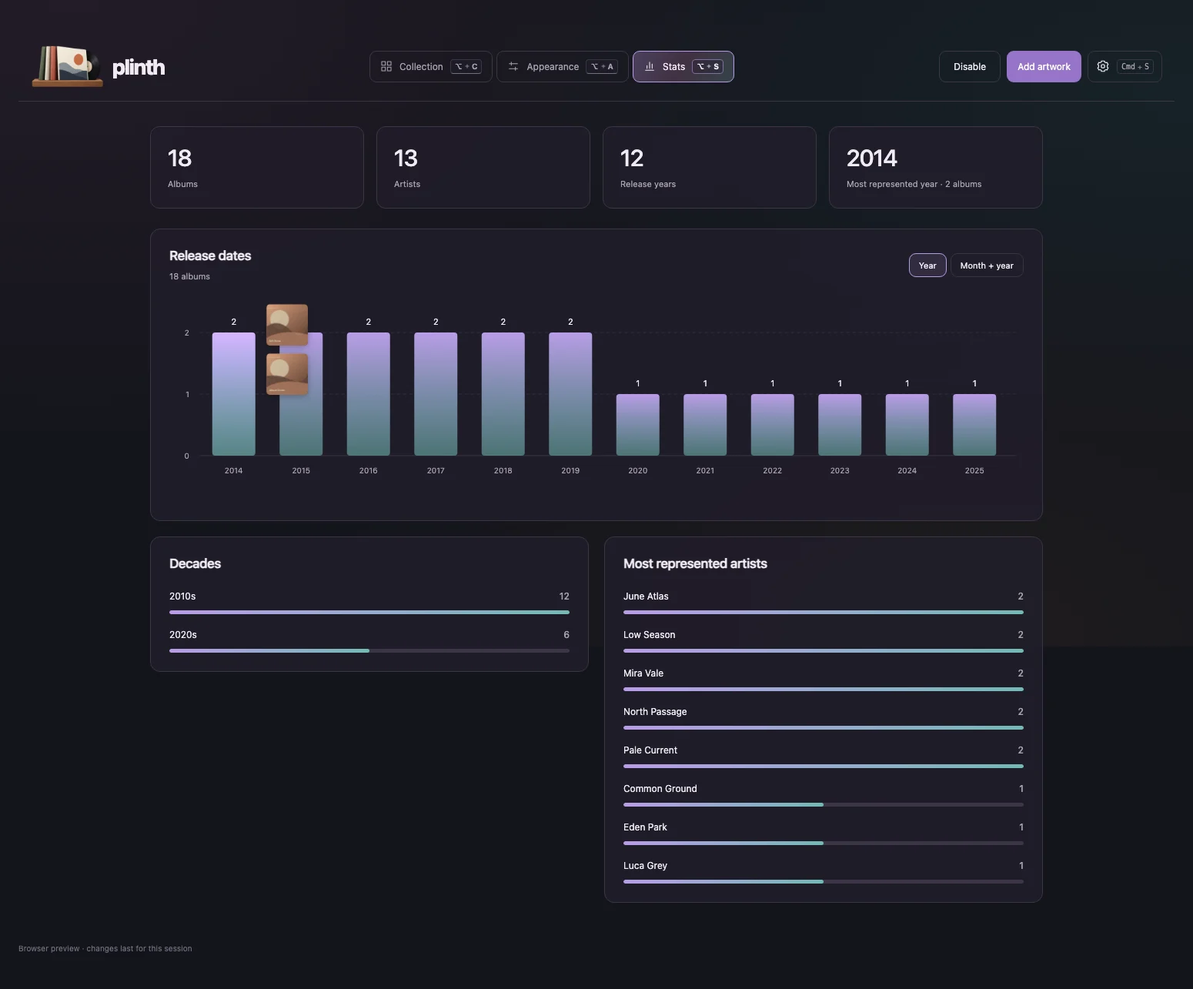
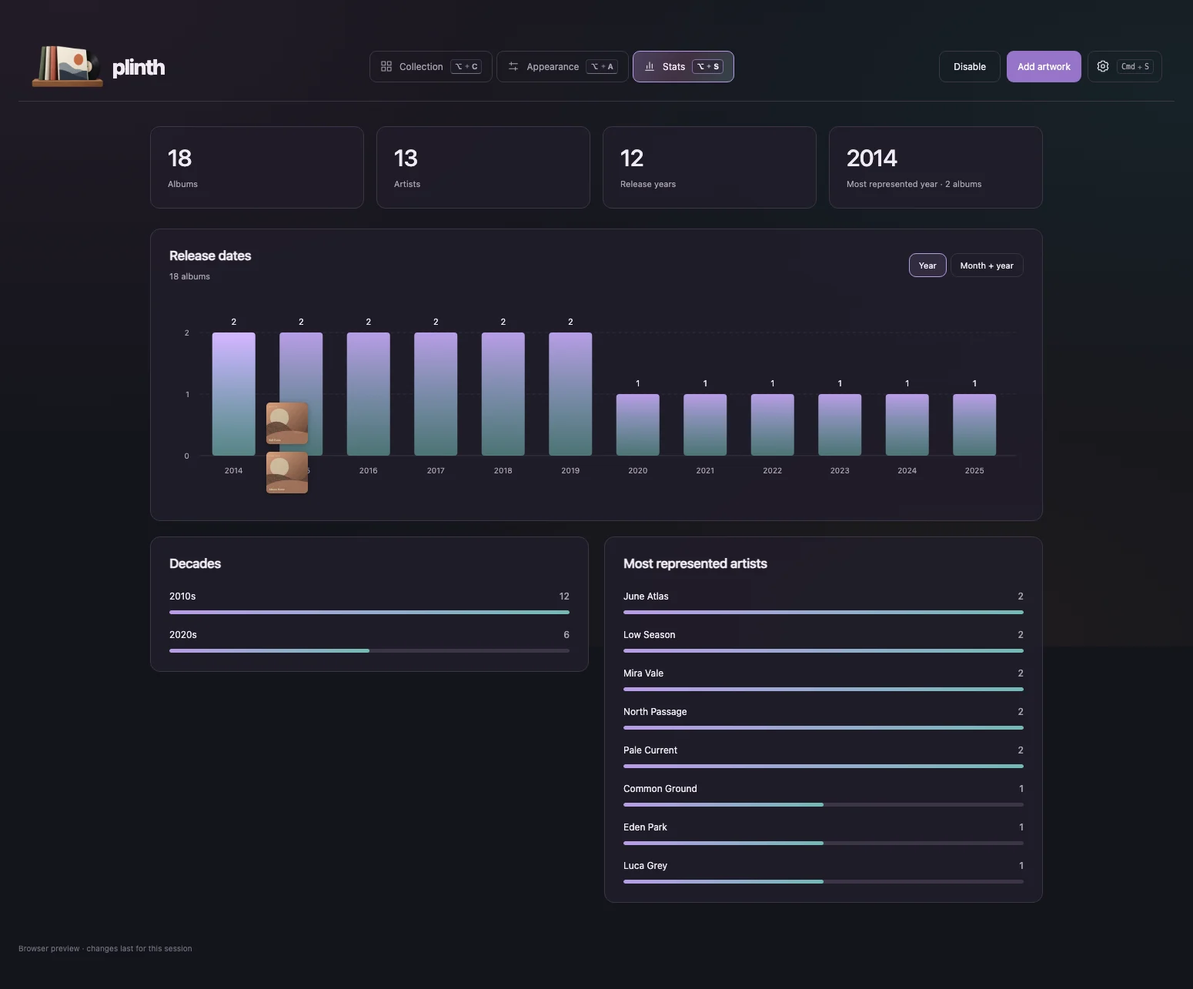
Smooth the release-chart artwork peek and vary its breathing
Scroll the peek column with one eased track transform and overscanned
covers, and load small native cover thumbnails instead of 1200 px covers,
which removes the frozen, blank and misaligned covers while scrolling.
Each cover now drifts, sways and breathes on its own seeded loops with
20% less rotation. Albums run from earliest at the top to latest at the
bottom, short groups rest against the bottom, and clicking no longer
moves the column or focuses a date.

Changed region(s): [[0.2168, 0.3113, 0.2787, 0.4981]]

diff --git a/src/lib/Stats.svelte b/src/lib/Stats.svelte
@@ -1,29 +1,38 @@
 <script lang="ts">
- import { coverUrl } from './api'
+ import { onDestroy } from 'svelte'
  import type { Album } from './types'
  import { libraryStats, months } from './stats'
+ import { breathe, cancelThumbnails, peekScroll, peekStride, requestThumbnails, thumbnail } from './peek'
  export let albums:Album[]=[]
  let plotWidth=0
  let hoveredKey=''
  let progress=0
  let chart:HTMLDivElement
- const chartHeight=265,peekWidth=74,stride=64
+ let pointerInside=false,focusedKey=''
+ let peekFirst=0,peekLast=-1
+ const chartHeight=265,peekWidth=74
  function clearPeek(){hoveredKey='';progress=0}
  function hoverBucket(key:string,event:PointerEvent){
-  hoveredKey=key
+  pointerInside=true;hoveredKey=key
   const rect=chart.getBoundingClientRect()
-  // Moving upward along a date's column reveals later albums in that group.
+  // The column maps onto the date's albums: the bottom shows the latest, and moving upward
+  // scrolls back toward the earliest at the top.
   progress=Math.max(0,Math.min(1,(205-(event.clientY-rect.top))/190))
  }
- function focusBucket(key:string){hoveredKey=key;progress=0}
+ // Keyboard focus starts a new date at its latest albums; a pointer click never moves the column.
+ function focusBucket(key:string){if(hoveredKey!==key){hoveredKey=key;progress=0}}
+ function blurBucket(key:string){focusedKey='';if(hoveredKey===key&&!pointerInside)clearPeek()}
+ // Leaving the chart returns to a keyboard-focused date, if any.
+ function leaveChart(){pointerInside=false;if(focusedKey)focusBucket(focusedKey);else clearPeek()}
  function browseBucket(key:string,event:KeyboardEvent){
   if(event.key==='Escape'){clearPeek();return}
   if(['ArrowUp','ArrowDown','Home','End','Enter',' '].includes(event.key)){
-   event.preventDefault();hoveredKey=key
+   event.preventDefault();focusBucket(key)
    const distance=1/Math.max(1,hoveredAlbums.length-4)
-   progress=event.key==='Home'?0:event.key==='End'?1:event.key==='ArrowUp'?Math.min(1,progress+distance):event.key==='ArrowDown'?Math.max(0,progress-distance):progress
+   progress=event.key==='Home'?1:event.key==='End'?0:event.key==='ArrowUp'?Math.min(1,progress+distance):event.key==='ArrowDown'?Math.max(0,progress-distance):progress
   }
  }
+ onDestroy(cancelThumbnails)
  let grouping:'year'|'month'='year'
  $: stats=libraryStats(albums)
  $: buckets=grouping==='year'?stats.years:stats.monthYears
@@ -35,9 +44,10 @@
  $: labelEvery=Math.max(1,Math.ceil(buckets.length/Math.max(1,Math.floor((chartWidth-60)/(grouping==='year'?42:58)))))
  $: hoveredIndex=buckets.findIndex(bucket=>bucket.label===hoveredKey)
  $: hoveredAlbums=(grouping==='year'?stats.yearAlbums:stats.monthAlbums).get(hoveredKey)??[]
- $: peekOffset=progress*Math.max(0,hoveredAlbums.length-4)*stride
- $: firstPeek=Math.max(0,Math.floor(peekOffset/stride)-1)
- $: visiblePeek=hoveredAlbums.slice(firstPeek,firstPeek+7)
+ $: visiblePeek=hoveredAlbums.slice(peekFirst,peekLast+1)
+ // Covers start loading for the whole chart; the hovered date's albums go first, latest first.
+ $: requestThumbnails([...stats.yearAlbums.values()].flat())
+ $: if(hoveredAlbums.length)requestThumbnails([...hoveredAlbums].reverse(),true)
  $: barCenter=40+(hoveredIndex+.5)*step
  $: peekLeft=Math.max(0,Math.min(chartWidth-peekWidth,barCenter+step*.28+8+peekWidth<chartWidth?barCenter+step*.28+8:barCenter-step*.28-8-peekWidth))
  $: peak=[...stats.years].sort((a,b)=>b.count-a.count||a.label.localeCompare(b.label))[0]
@@ -56,12 +66,12 @@
   <div class="stats-chart-heading"><div><h2>Release dates</h2><p>{#if datedCount===albums.length}{datedCount} {datedCount===1?'album':'albums'}{:else}{datedCount} of {albums.length} albums with {grouping==='year'?'a release year':'a release month'}{/if}</p></div><div class="stats-grouping" role="group" aria-label="Group release dates"><button aria-pressed={grouping==='year'} onclick={()=>{grouping='year';clearPeek()}}>Year</button><button aria-pressed={grouping==='month'} onclick={()=>{grouping='month';clearPeek()}}>Month + year</button></div></div>
   {#if !buckets.length}<p class="stats-empty">Add {grouping==='year'?'release dates':'release months'} in the album editor to fill this chart.</p>
   {:else}
-   <div class="stats-plot" bind:this={chart} bind:clientWidth={plotWidth} onpointerleave={clearPeek} role="group" aria-label="Release date chart">
+   <div class="stats-plot" bind:this={chart} bind:clientWidth={plotWidth} onpointerleave={leaveChart} role="group" aria-label="Release date chart">
     <svg class="release-chart" width={chartWidth} height={chartHeight} viewBox={`0 0 ${chartWidth} ${chartHeight}`} role="group" aria-label={`Albums by release ${grouping}`}>
      <defs><linearGradient id="stats-bars" x1="0" y1="0" x2="0" y2="1"><stop stop-color="var(--accent)"/><stop offset="1" stop-color="#72bab5" stop-opacity=".55"/></linearGradient></defs>
      {#each ticks as count}<line x1="40" x2={chartWidth-10} y1={205-count/maximum*160} y2={205-count/maximum*160} stroke="var(--line)" stroke-dasharray={count?'3 5':undefined}/><text x="26" y={209-count/maximum*160} text-anchor="end">{count}</text>{/each}
      {#each buckets as bucket,index}
-      <g class="release-bucket" class:peeked={hoveredKey===bucket.label} role="button" tabindex="0" aria-label={`${label(bucket.label)}: ${bucket.count} ${bucket.count===1?'album':'albums'}`} aria-describedby={hoveredKey===bucket.label?'release-artwork-preview':undefined} onpointermove={(event)=>hoverBucket(bucket.label,event)} onfocus={()=>focusBucket(bucket.label)} onblur={clearPeek} onkeydown={(event)=>browseBucket(bucket.label,event)} onclick={()=>focusBucket(bucket.label)}>
+      <g class="release-bucket" class:peeked={hoveredKey===bucket.label} role="button" tabindex="0" aria-label={`${label(bucket.label)}: ${bucket.count} ${bucket.count===1?'album':'albums'}`} aria-describedby={hoveredKey===bucket.label?'release-artwork-preview':undefined} onpointermove={(event)=>hoverBucket(bucket.label,event)} onmousedown={(event)=>event.preventDefault()} onfocus={()=>{focusedKey=bucket.label;focusBucket(bucket.label)}} onblur={()=>blurBucket(bucket.label)} onkeydown={(event)=>browseBucket(bucket.label,event)}>
        <rect class="release-bar" x={40+index*step+step*.18} y={205-bucket.count/maximum*160} width={step*.64} height={bucket.count/maximum*160} rx={Math.min(4,step*.2)} fill="url(#stats-bars)"/>
        {#if step>=20||index===hoveredIndex}<text class="bar-count" x={40+(index+.5)*step} y={195-bucket.count/maximum*160} text-anchor="middle">{bucket.count}</text>{/if}
        {#if index===hoveredIndex||(index%labelEvery===0&&(hoveredIndex<0||Math.abs(index-hoveredIndex)>=labelEvery*.8))}<text x={Math.max(52,Math.min(chartWidth-24,40+(index+.5)*step))} y="228" text-anchor="middle">{grouping==='year'?bucket.label:months[Number(bucket.label.slice(5))-1]}</text>{#if grouping==='month'}<text x={Math.max(52,Math.min(chartWidth-24,40+(index+.5)*step))} y="246" text-anchor="middle">{bucket.label.slice(0,4)}</text>{/if}{/if}
@@ -72,9 +82,11 @@
     {#if hoveredIndex>=0&&hoveredAlbums.length}
      <div class="stats-peek" id="release-artwork-preview" role="tooltip" aria-label={`${label(hoveredKey)} artwork`} style:left={`${peekLeft}px`}>
       <div class="stats-peek-window">
-       {#each visiblePeek as album,index (album.id)}
-        <div class="stats-peek-cover" style:top={`${4+(firstPeek+index)*stride-peekOffset}px`}><img src={coverUrl(album)} alt={`${album.title} by ${album.artist||'Unknown artist'}`} draggable="false" style:animation-delay={`${-(firstPeek+index)*1.37}s`}/></div>
-       {/each}
+       <div class="stats-peek-track" use:peekScroll={{key:hoveredKey,count:hoveredAlbums.length,progress,onrange:(first,last)=>{peekFirst=first;peekLast=last}}}>
+        {#each visiblePeek as album,index (album.id)}
+         <div class="stats-peek-cover" style:top={`${(peekFirst+index)*peekStride}px`} use:breathe={album.id}><div><img use:thumbnail={album} alt={`${album.title} by ${album.artist||'Unknown artist'}`} draggable="false"/></div></div>
+        {/each}
+       </div>
       </div>
      </div>
     {/if}

diff --git a/tests/stats.spec.ts b/tests/stats.spec.ts
@@ -9,6 +9,8 @@ test('stats counts release precision, hidden albums, artists and invalid dates a
  expect(stats.years).toEqual([{label:'1999',count:1},{label:'2024',count:3}])
  expect(stats.monthYears).toEqual([{label:'1999-12',count:1},{label:'2024-02',count:2}])
  expect(stats.topArtists).toEqual([{label:'Mira Vale',count:4}])
+ const ordered=libraryStats(['2020-11-02','2020','2020-03-09','2020-03'].map((date,i)=>({...demoAlbums[0],id:String(i),date})))
+ expect(ordered.yearAlbums.get('2020')!.map(album=>album.date)).toEqual(['2020','2020-03','2020-03-09','2020-11-02'])
 })
 
 test('Stats charts switch between years and months and settings returns to the prior page',async({page})=>{
@@ -42,16 +44,26 @@ test('Stats has empty and undated states and fits a narrow light window',async({
 
 test('dense dates fit the chart and artwork previews follow the cursor and keyboard',async({page})=>{
  const {defaultSettings}=await import('../src/lib/types')
- const albums=[...Array.from({length:9},(_,i)=>({...demoAlbums[i],id:`stack-${i}`,title:`Stack ${i}`,date:'2024-01-01'})),...Array.from({length:180},(_,i)=>({...demoAlbums[i%18],id:`dense-${i}`,date:`${2000+Math.floor(i/12)}-${String(i%12+1).padStart(2,'0')}-01`}))]
+ const albums=[...Array.from({length:9},(_,i)=>({...demoAlbums[i],id:`stack-${i}`,title:`Stack ${i}`,date:`2024-01-0${i+1}`})).reverse(),{...demoAlbums[0],id:'pair-late',title:'Pair Late',date:'1999-12-01'},{...demoAlbums[1],id:'pair-early',title:'Pair Early',date:'1999-02-01'},...Array.from({length:180},(_,i)=>({...demoAlbums[i%18],id:`dense-${i}`,date:`${2000+Math.floor(i/12)}-${String(i%12+1).padStart(2,'0')}-01`}))]
  await page.addInitScript(({albums,settings})=>{
   let next=1
   Object.assign(window,{isTauri:true,__TAURI_INTERNALS__:{metadata:{currentWindow:{label:'main'},currentWebview:{label:'main'}},transformCallback:()=>next++,unregisterCallback:()=>{},convertFileSrc:(path:string)=>albums.find(album=>path.endsWith(album.cover))?.original??albums[0].original,invoke:async(command:string)=>command==='get_library'?{dataDir:'/synthetic-demo',library:{albums,settings}}:command==='get_displays'?[]:command==='plugin:event|listen'?next++:null},__TAURI_EVENT_PLUGIN_INTERNALS__:{unregisterListener:()=>{}}})
  },{albums:albums.map((album,i)=>({...album,cover:`synthetic-${i}.jpg`,original:album.cover})),settings:defaultSettings})
  await page.setViewportSize({width:640,height:700});await page.goto('/');await page.keyboard.press('Alt+KeyS')
  await expect(page.getByRole('heading',{name:'Stats',exact:true})).toHaveCount(0)
- await expect(page.locator('.stats-chart-heading p')).toHaveText('189 albums')
+ await expect(page.locator('.stats-chart-heading p')).toHaveText('191 albums')
+ // A short group rests against the bottom of the column, earliest above latest.
+ await page.locator('.stats-plot').scrollIntoViewIfNeeded()
+ const pair=(await page.getByRole('button',{name:'1999: 2 albums',exact:true}).locator('.release-hit').boundingBox())!
+ await page.mouse.move(pair.x+pair.width/2,pair.y+pair.height/2)
+ const pairPeek=page.getByRole('tooltip',{name:'1999 artwork',exact:true})
+ const early=pairPeek.getByRole('img',{name:'Pair Early by Low Season',exact:true}),late=pairPeek.getByRole('img',{name:'Pair Late by Mira Vale',exact:true})
+ await expect(late).toHaveClass(/ready/)
+ const pairWindow=(await page.locator('.stats-peek-window').boundingBox())!,earlyBox=(await early.boundingBox())!,lateBox=(await late.boundingBox())!
+ expect(earlyBox.y).toBeLessThan(lateBox.y);expect(lateBox.y+lateBox.height).toBeGreaterThan(pairWindow.y+pairWindow.height-12)
+ await page.mouse.move(5,5);await expect(pairPeek).not.toBeVisible()
  await page.getByRole('button',{name:'Month + year',exact:true}).click()
- await expect(page.locator('.release-bucket')).toHaveCount(181)
+ await expect(page.locator('.release-bucket')).toHaveCount(183)
  expect(await page.locator('.stats-plot').evaluate(el=>el.scrollWidth<=el.clientWidth+1)).toBe(true)
  expect(await page.evaluate(()=>document.documentElement.scrollWidth<=innerWidth)).toBe(true)
  const bucket=page.getByRole('button',{name:'Jan 2024: 9 albums',exact:true})
@@ -59,20 +71,29 @@ test('dense dates fit the chart and artwork previews follow the cursor and keybo
  const bounds=(await bucket.locator('.release-hit').boundingBox())!
  await page.mouse.move(bounds.x+bounds.width/2,bounds.y+bounds.height-50)
  const peek=page.getByRole('tooltip',{name:'Jan 2024 artwork',exact:true})
- await expect(peek).toBeVisible();await expect(peek.getByRole('img',{name:'Stack 0 by Mira Vale',exact:true})).toBeVisible()
- const first=await peek.getByRole('img',{name:'Stack 0 by Mira Vale',exact:true}).boundingBox()
+ // The bottom of the column shows the latest albums; moving up scrolls back to the earliest.
+ const earliest=peek.getByRole('img',{name:'Stack 0 by Mira Vale',exact:true}),latest=peek.getByRole('img',{name:'Stack 8 by Luca Grey',exact:true})
+ await expect(peek).toBeVisible();await expect(latest).toBeVisible();await expect(earliest).toHaveCount(0)
  const window=(await page.locator('.stats-peek-window').boundingBox())!
- expect(first!.y).toBeGreaterThanOrEqual(window.y)
+ expect((await latest.boundingBox())!.y+54).toBeLessThanOrEqual(window.y+window.height+2)
  await page.mouse.move(bounds.x+bounds.width/2,bounds.y+2)
- await expect(peek.getByRole('img',{name:'Stack 8 by Luca Grey',exact:true})).toBeVisible()
- await expect(peek.getByRole('img',{name:'Stack 0 by Mira Vale',exact:true})).toHaveCount(0)
- const last=await peek.getByRole('img',{name:'Stack 8 by Luca Grey',exact:true}).boundingBox()
- expect(last!.y+last!.height).toBeLessThanOrEqual(window.y+window.height+2)
+ await expect(earliest).toBeVisible();await expect(latest).toHaveCount(0)
+ await expect.poll(async()=>(await earliest.boundingBox())!.y-window.y,{timeout:2000}).toBeLessThan(8)
+ // Clicking while browsing leaves the column where the pointer put it.
+ const track=page.locator('.stats-peek-track'),settled='translate3d(0px, 0px, 0px)'
+ await expect.poll(()=>track.evaluate(el=>el.style.transform)).toBe(settled)
+ await page.mouse.down();await page.mouse.up();await page.waitForTimeout(300)
+ expect(await track.evaluate(el=>el.style.transform)).toBe(settled);await expect(earliest).toBeVisible()
+ expect(await page.evaluate(()=>document.activeElement?.classList.contains('release-bucket'))).toBe(false)
+ // Each cover drifts, sways and breathes on loops of its own.
+ const timings=await peek.locator('.stats-peek-cover').evaluateAll(covers=>covers.map(cover=>[cover,cover.firstElementChild!,cover.querySelector('img')!].map(node=>Math.round(Number(node.getAnimations()[0].effect!.getTiming().duration)))))
+ expect(new Set(timings.map(t=>t.join())).size).toBe(timings.length)
  await bucket.focus();await page.keyboard.press('End')
  await expect(peek.getByRole('img',{name:'Stack 8 by Luca Grey',exact:true})).toBeVisible()
  await page.keyboard.press('Home');await expect(peek.getByRole('img',{name:'Stack 0 by Mira Vale',exact:true})).toBeVisible()
  await page.keyboard.press('Escape');await expect(peek).not.toBeVisible()
  await page.emulateMedia({reducedMotion:'reduce'});await bucket.blur();await bucket.focus()
- await expect(peek.locator('img').first()).toHaveCSS('animation-name','none')
+ await expect(peek.locator('img').first()).toBeVisible()
+ expect(await peek.evaluate(el=>el.getAnimations({subtree:true}).filter(a=>a.playState==='running'&&(a as CSSAnimation).animationName!=='stats-peek-in').length)).toBe(0)
  await page.getByRole('button',{name:'Year',exact:true}).click();await expect(peek).not.toBeVisible()
 })

diff --git a/src/lib/peek.ts b/src/lib/peek.ts
@@ -1,0 +1,98 @@
+import { coverThumbnail, coverUrl } from './api'
+import type { Album } from './types'
+
+// Release-chart artwork peek: a column of small covers that scrolls with the pointer.
+export const peekStride=64,peekSlots=4,peekHeight=256
+const coverSize=54,overscan=2,thumbSize=128
+
+// Full covers are up to 1200 px; decoding them while the column scrolls freezes it and leaves
+// blank covers. Small copies are made natively, a few at a time, and kept for the session.
+const thumbs=new Map<string,string>(),pending=new Map<string,Album>(),waiting=new Map<string,Set<(src:string)=>void>>()
+let running=0
+function pump(){
+ while(running<3&&pending.size){
+  const [cover,album]=pending.entries().next().value!;pending.delete(cover);running++
+  coverThumbnail(album,thumbSize).catch(()=>coverUrl(album)).then(src=>{
+   thumbs.set(cover,src);for(const done of waiting.get(cover)??[])done(src);waiting.delete(cover);running--;pump()
+  })
+ }
+}
+// Urgent requests jump ahead of background work, in the order given.
+export function requestThumbnails(albums:Album[],urgent=false){
+ const fresh=albums.filter(album=>album.cover&&!thumbs.has(album.cover))
+ if(urgent){const rest=[...pending].filter(([cover])=>!fresh.some(album=>album.cover===cover));pending.clear();for(const album of fresh)pending.set(album.cover,album);for(const [cover,album] of rest)pending.set(cover,album)}
+ else for(const album of fresh)if(!pending.has(album.cover))pending.set(album.cover,album)
+ pump()
+}
+export function cancelThumbnails(){pending.clear()}
+export function thumbnail(img:HTMLImageElement,album:Album){
+ let current=''
+ function update(next:Album){
+  current=next.cover
+  const ready=thumbs.get(next.cover)
+  if(ready){img.src=ready;img.classList.add('ready');return}
+  img.classList.remove('ready');img.removeAttribute('src')
+  const done=(src:string)=>{if(current===next.cover){img.src=src;img.decode().catch(()=>{}).then(()=>img.classList.add('ready'))}}
+  waiting.set(next.cover,(waiting.get(next.cover)??new Set()).add(done));requestThumbnails([next],true)
+ }
+ update(album)
+ return {update,destroy(){current=''}}
+}
+
+const reduced=()=>matchMedia('(prefers-reduced-motion: reduce)').matches
+// The track's offset when the pointer is at the bottom of the column (progress 0) or the top
+// (progress 1). Albums run first to last from top to bottom and rest against the bottom edge.
+export function trackOffset(count:number,progress:number){return (peekSlots-count)*peekStride+progress*Math.max(0,count-peekSlots)*peekStride}
+// Eases the track toward the pointer with one compositor transform, and reports which covers
+// (with a little overscan) need to exist, so covers mount out of view and never pop.
+export function peekScroll(track:HTMLElement,options:{key:string;count:number;progress:number;onrange:(first:number,last:number)=>void}){
+ let offset=0,target=0,key='',range='',frame=0,last=0
+ function place(){
+  track.style.transform=`translate3d(0,${offset}px,0)`
+  const first=Math.max(0,Math.floor((-offset-coverSize)/peekStride)-overscan),end=Math.min(options.count-1,Math.ceil((peekHeight-offset)/peekStride)+overscan)
+  if(`${options.key}:${first}:${end}`!==range){range=`${options.key}:${first}:${end}`;options.onrange(first,end)}
+ }
+ function tick(now:number){
+  // Frame-rate independent exponential approach (about 70 ms to close two thirds of the gap).
+  offset+=(target-offset)*(1-Math.exp(-Math.min(64,now-last)/70));last=now
+  if(Math.abs(target-offset)<.05)offset=target
+  place();frame=offset===target?0:requestAnimationFrame(tick)
+ }
+ function update(next:typeof options){
+  options=next;target=trackOffset(next.count,next.progress)
+  if(next.key!==key||reduced()){key=next.key;offset=target;cancelAnimationFrame(frame);frame=0;place();return}
+  if(!frame&&offset!==target){last=performance.now();frame=requestAnimationFrame(tick)}
+ }
+ update(options)
+ return {update,destroy(){cancelAnimationFrame(frame)}}
+}
+
+// Each cover drifts, sways and breathes on its own unrelated loops: three layers, each with a
+// seeded duration and a smooth closed path made of random harmonics, so no two covers move alike
+// and none simply rocks back and forth. Web Animations keep it on the compositor.
+function seeded(text:string){
+ let h=2166136261;for(let i=0;i<text.length;i++)h=Math.imul(h^text.charCodeAt(i),16777619)
+ return ()=>{h=Math.imul(h^h>>>15,h|1);h^=h+Math.imul(h^h>>>7,h|61);return((h^h>>>14)>>>0)/4294967296}
+}
+const samples=36
+function wander(random:()=>number){
+ const waves=[{k:1,weight:1},{k:2,weight:.25+random()*.35},{k:3,weight:.08+random()*.22}].map(wave=>({...wave,phase:random()*Math.PI*2}))
+ const path=Array.from({length:samples+1},(_,i)=>waves.reduce((sum,{k,weight,phase})=>sum+weight*Math.sin(k*Math.PI*2*i/samples+phase),0))
+ const peak=Math.max(...path.map(Math.abs));return path.map(value=>value/peak)
+}
+export function breathe(cover:HTMLElement,id:string){
+ if(reduced())return
+ const random=seeded(id),sway=cover.firstElementChild as HTMLElement,img=sway.firstElementChild as HTMLElement
+ const loop=(node:HTMLElement,seconds:[number,number],frames:(i:number)=>string)=>{
+  const duration=(seconds[0]+random()*(seconds[1]-seconds[0]))*1000
+  const animation=node.animate(Array.from({length:samples+1},(_,i)=>({transform:frames(i)})),{duration,iterations:Infinity,easing:'linear'})
+  animation.currentTime=random()*duration;return animation
+ }
+ const x=wander(random),y=wander(random),turn=wander(random),size=wander(random)
+ const animations=[
+  loop(cover,[9,13],i=>`translate(${(x[i]*.6).toFixed(3)}px,${(y[i]*.4).toFixed(3)}px)`),
+  loop(sway,[7,10.5],i=>`rotate(${(turn[i]*.64).toFixed(3)}deg)`),
+  loop(img,[6.5,9.5],i=>`scale(${(1+size[i]*.015).toFixed(4)})`),
+ ]
+ return {destroy(){for(const animation of animations)animation.cancel()}}
+}

diff --git a/src/app.css b/src/app.css
@@ -56,4 +56,4 @@ nav button .shortcut{min-width:30px;padding:0 5px;border-bottom-color:var(--fain
 .stats-page{max-width:1160px;margin:8px auto 28px}.stats-summary{display:grid;grid-template-columns:repeat(4,minmax(0,1fr));gap:16px;margin:0 0 26px}.stats-summary>div{border:1px solid var(--line);border-radius:12px;background:var(--paper);padding:22px}.stats-summary strong{display:block;font-size:30px;font-weight:500;letter-spacing:-1px}.stats-summary span{display:block;color:var(--muted);font-size:11px;margin-top:8px;line-height:1.6}.stats-chart{padding:24px}.stats-chart-heading{display:flex;align-items:center;justify-content:space-between;gap:16px;margin-bottom:20px}.stats-chart-heading p{color:var(--muted);font-size:11px;margin-top:8px;line-height:1.6}.stats-grouping{display:flex;gap:5px;flex-shrink:0}.stats-grouping button{font-size:11px;padding:8px 12px}.stats-grouping button[aria-pressed=true]{border-color:var(--accent);background:color-mix(in srgb,var(--accent) 12%,var(--paper));color:var(--ink)}.release-chart{display:block}.release-chart text{fill:var(--muted);font-size:10px}.release-chart .bar-count{fill:var(--ink);font-size:11px}.stats-details{display:grid;align-items:start;grid-template-columns:1fr 1fr;gap:20px;margin-top:20px}.stats-ranking{padding:24px}.stats-ranking ol{list-style:none;padding:0;margin:24px 0 0}.stats-ranking li+li{margin-top:18px}.stats-ranking li>div:first-child{display:flex;justify-content:space-between;gap:12px;font-size:12px;line-height:1.5}.stats-ranking strong{font-weight:500;color:var(--muted)}.stats-track{height:5px;background:var(--line);border-radius:4px;margin-top:9px;overflow:hidden}.stats-track span{display:block;height:100%;border-radius:inherit;background:linear-gradient(90deg,var(--accent),#72bab5)}.stats-empty{color:var(--muted);font-size:12px;line-height:1.7;padding:28px 0}@media(max-width:760px){.stats-summary{grid-template-columns:repeat(2,minmax(0,1fr))}.stats-details{grid-template-columns:1fr}.stats-chart-heading{align-items:flex-start;flex-direction:column}.stats-chart,.stats-ranking{padding:18px}.settings-dialog{padding:18px}}
 
 /* Each release column fits the plot; only the artwork preview moves vertically. */
-.stats-plot{position:relative;width:100%;min-width:0;margin-top:8px}.stats-plot .release-chart{width:100%;min-width:0;overflow:visible}.release-bucket{outline:none}.release-bar{transition:opacity .15s,filter .15s}.release-bucket.peeked .release-bar,.release-bucket:focus-visible .release-bar{filter:brightness(1.16)}.release-bucket:focus-visible .release-hit{stroke:var(--accent);stroke-width:1;rx:4}.release-hit{cursor:default}.stats-peek{position:absolute;top:4px;width:74px;height:256px;pointer-events:none;z-index:2;animation:stats-peek-in .16s ease-out}.stats-peek-window{position:relative;width:74px;height:256px;overflow:hidden;mask-image:linear-gradient(transparent,#000 4px,#000 calc(100% - 4px),transparent)}.stats-peek-cover{position:absolute;left:10px;width:54px;height:54px;transition:top .1s ease-out}.stats-peek-cover img{display:block;width:100%;height:100%;border-radius:5px;box-shadow:0 2px 8px #0004;animation:stats-cover-breathe 8s ease-in-out infinite;will-change:transform}@keyframes stats-peek-in{from{opacity:0}to{opacity:1}}@keyframes stats-cover-breathe{0%,100%{transform:translate(-.6px,.4px) rotate(-.8deg) scale(.985)}50%{transform:translate(.6px,-.4px) rotate(.8deg) scale(1.015)}}
+.stats-plot{position:relative;width:100%;min-width:0;margin-top:8px}.stats-plot .release-chart{width:100%;min-width:0;overflow:visible}.release-bucket{outline:none}.release-bar{transition:opacity .15s,filter .15s}.release-bucket.peeked .release-bar,.release-bucket:focus-visible .release-bar{filter:brightness(1.16)}.release-bucket:focus-visible .release-hit{stroke:var(--accent);stroke-width:1;rx:4}.release-hit{cursor:default}.stats-peek{position:absolute;top:4px;width:74px;height:256px;pointer-events:none;z-index:2;animation:stats-peek-in .16s ease-out}.stats-peek-window{position:relative;width:74px;height:256px;overflow:hidden;mask-image:linear-gradient(transparent,#000 4px,#000 calc(100% - 4px),transparent)}.stats-peek-track{position:absolute;inset:4px 0 auto;will-change:transform}.stats-peek-cover{position:absolute;left:10px;width:54px;height:54px}.stats-peek-cover>div{width:100%;height:100%;border-radius:5px;background:var(--line)}.stats-peek-cover img{display:block;width:100%;height:100%;object-fit:cover;border-radius:5px;box-shadow:0 2px 8px #0004;opacity:0;transition:opacity .18s}.stats-peek-cover img.ready{opacity:1}@keyframes stats-peek-in{from{opacity:0}to{opacity:1}}

diff --git a/src/lib/api.ts b/src/lib/api.ts
@@ -14,6 +14,13 @@ export async function loadLibrary(): Promise<Library> {
  const result = await invoke<{library: Library; dataDir:string}>('get_library'); dataDir=result.dataDir; return result.library
 }
 export function coverUrl(album: Album) { return native ? convertFileSrc(`${dataDir}/covers/${album.cover}`) : album.cover }
+// A small square copy of a stored cover for animated previews. Browser demo covers are already light.
+export async function coverThumbnail(album: Album, size: number) {
+ if(!native) return album.cover
+ const bytes=await invoke<ArrayBuffer>('cover_thumbnail',{cover:album.cover,size})
+ if(!(bytes instanceof ArrayBuffer)) throw new Error('No thumbnail')
+ return URL.createObjectURL(new Blob([bytes],{type:'image/jpeg'}))
+}
 export async function subscribe(fn:(library: Library)=>void) { if(native) return listen<Library>('library-changed',e=>fn(e.payload)); listeners.add(fn);return ()=>{listeners.delete(fn)} }
 export async function saveSettings(settings:Settings) { if(native) return invoke('save_settings',{settings}); browserLibrary.settings=structuredClone(settings);changed() }
 export async function updateAlbum(album:Album) { if(native) return invoke('update_album',{album}); browserLibrary.albums=browserLibrary.albums.map(a=>a.id===album.id?album:a);changed() }

diff --git a/src/lib/stats.ts b/src/lib/stats.ts
@@ -19,6 +19,8 @@ export function libraryStats(albums:Album[]){
   dated++;add(years,match[1]);collect(yearAlbums,match[1],album);add(decades,`${Math.floor(year/10)*10}s`)
   if(match[2]){monthly++;add(monthYears,`${match[1]}-${match[2]}`);collect(monthAlbums,`${match[1]}-${match[2]}`,album)}
  }
+ // Within a date, albums run from earliest (January) to latest; year-only dates come first.
+ for(const group of [...yearAlbums.values(),...monthAlbums.values()])group.sort((a,b)=>a.date.localeCompare(b.date))
  const chronological=(map:Map<string,number>):Bucket[]=>[...map].sort(([a],[b])=>a.localeCompare(b)).map(([label,count])=>({label,count}))
  const ranked=[...artists].sort(([a,ac],[b,bc])=>bc-ac||a.localeCompare(b)).map(([label,count])=>({label,count}))
  return {dated,monthly,yearAlbums,monthAlbums,artists:artists.size,years:chronological(years),monthYears:chronological(monthYears),decades:chronological(decades),topArtists:ranked.slice(0,8)}

diff --git a/tests/screenshots.spec.ts b/tests/screenshots.spec.ts
@@ -24,7 +24,7 @@ test('README screenshots use only synthetic demo artwork',async({page})=>{
  await page.mouse.up()
  await page.getByRole('button',{name:'Stats',exact:true}).click()
  await page.locator('.release-bucket').first().focus()
- await page.locator('.stats-peek img').first().evaluate(async(image:HTMLImageElement)=>image.decode())
+ await expect(page.locator('.stats-peek img:not(.ready)')).toHaveCount(0);await expect(page.locator('.stats-peek img.ready').first()).toBeVisible()
  await sharp(await page.screenshot({fullPage:true,animations:'disabled'})).webp({quality:86}).toFile('docs/screenshots/stats.webp')
  await page.getByRole('button',{name:'Settings',exact:true}).click()
  await expect(page.getByLabel('Clicking an album')).toHaveCount(0)

diff --git a/src-tauri/src/library.rs b/src-tauri/src/library.rs
@@ -292,9 +292,45 @@ pub fn validate_settings(s: &Settings) -> Result<(), String> {
     }
     Ok(())
 }
+/// A small square JPEG of a stored cover, center-cropped like `object-fit: cover`.
+/// Full covers are up to 1200 px; decoding them in the webview stalls animated previews.
+pub fn cover_thumbnail(dir: &Path, cover: &str, size: u32) -> Result<Vec<u8>, String> {
+    if cover.is_empty() || cover.starts_with('.') || cover.contains(['/', '\\']) {
+        return Err("Invalid cover".into());
+    }
+    let decoded = image::open(dir.join("covers").join(cover)).map_err(|e| e.to_string())?;
+    let side = decoded.width().min(decoded.height());
+    let size = size.clamp(16, 512).min(side.max(1));
+    let square = decoded.crop_imm(
+        (decoded.width() - side) / 2,
+        (decoded.height() - side) / 2,
+        side,
+        side,
+    );
+    let mut bytes = Vec::new();
+    image::codecs::jpeg::JpegEncoder::new_with_quality(&mut bytes, 90)
+        .encode_image(&square.thumbnail_exact(size, size).to_rgb8())
+        .map_err(|e| e.to_string())?;
+    Ok(bytes)
+}
 #[cfg(test)]
 mod tests {
     use super::*;
+    #[test]
+    fn cover_thumbnail_crops_square_and_rejects_paths() {
+        let dir = std::env::temp_dir().join(format!("plinth-thumb-{}", std::process::id()));
+        fs::create_dir_all(dir.join("covers")).unwrap();
+        image::RgbImage::from_pixel(300, 200, image::Rgb([200, 40, 90]))
+            .save(dir.join("covers").join("wide.jpg"))
+            .unwrap();
+        let thumb =
+            image::load_from_memory(&cover_thumbnail(&dir, "wide.jpg", 128).unwrap()).unwrap();
+        assert_eq!((thumb.width(), thumb.height()), (128, 128));
+        for name in ["", "../library.json", "covers/wide.jpg", ".hidden"] {
+            assert!(cover_thumbnail(&dir, name, 128).is_err());
+        }
+        fs::remove_dir_all(dir).unwrap();
+    }
     #[test]
     fn obsolete_open_mode_is_ignored() {
         for mode in ["library", "link"] {

diff --git a/src-tauri/src/main.rs b/src-tauri/src/main.rs
@@ -126,6 +126,20 @@ fn apply_settings_effects(
     Ok(())
 }
 #[tauri::command]
+async fn cover_thumbnail(
+    window: tauri::WebviewWindow,
+    app: tauri::AppHandle,
+    cover: String,
+    size: u32,
+) -> Result<tauri::ipc::Response, String> {
+    editor(&window)?;
+    let dir = app.state::<Store>().dir.clone();
+    tauri::async_runtime::spawn_blocking(move || library::cover_thumbnail(&dir, &cover, size))
+        .await
+        .map_err(|e| e.to_string())?
+        .map(tauri::ipc::Response::new)
+}
+#[tauri::command]
 async fn get_history(
     window: tauri::WebviewWindow,
     app: tauri::AppHandle,
@@ -595,6 +609,7 @@ fn main() {
             get_displays,
             get_spaces,
             get_library,
+            cover_thumbnail,
             get_history,
             navigate_history,
             save_settings,

diff --git a/AGENTS.md b/AGENTS.md
@@ -49,4 +49,4 @@
 - Desktop hover behavior is mirrored on the website hero in `../plinth-website/public/hover.js`: nearest-cover hit areas with no dead zone, enlargement laid out at the animation's largest size and scaled down only (never upscaled, never animating layout size), slow breathing, drift away from the pointer, and neighbor push that follows the current size. Keep app and site in sync whenever any of these change.
 - Size desktop cells with the same explicit pixel width and height from shared geometry; do not rely on flexbox aspect-ratio sizing. Background hover defaults on; when disabled, only Plinth or Finder foreground permits desktop enlargement. Include foreground changes in pointer tracking even without pointer movement.
 
-- Stats has no page heading or introductory copy. Release-date bars fit the available width; thin out axis labels for dense data. Hovered date columns show artwork only, about four covers over the chart height, with subtle scale/rotation/position breathing. Moving upward along a column scrolls larger groups; keyboard users can focus a date and use Up/Down or Home/End. Show just the album count when date coverage is complete.
+- Stats has no page heading or introductory copy. Release-date bars fit the available width; thin out axis labels for dense data. Hovered date columns show artwork only, about four covers over the chart height, earliest (January) at the top and latest at the bottom, with short groups resting against the bottom. Each cover drifts, sways, and breathes on its own seeded loops (Web Animations, ±0.64° rotation); keep them uncorrelated. The column maps onto the group: the bottom shows the latest, moving upward scrolls toward the earliest. Scroll with one eased track transform, mount covers with overscan, and use native `cover_thumbnail` copies, never full covers. Clicking must not move the column or focus a date; keyboard users can focus a date and use Up/Down or Home/End. Show just the album count when date coverage is complete.
